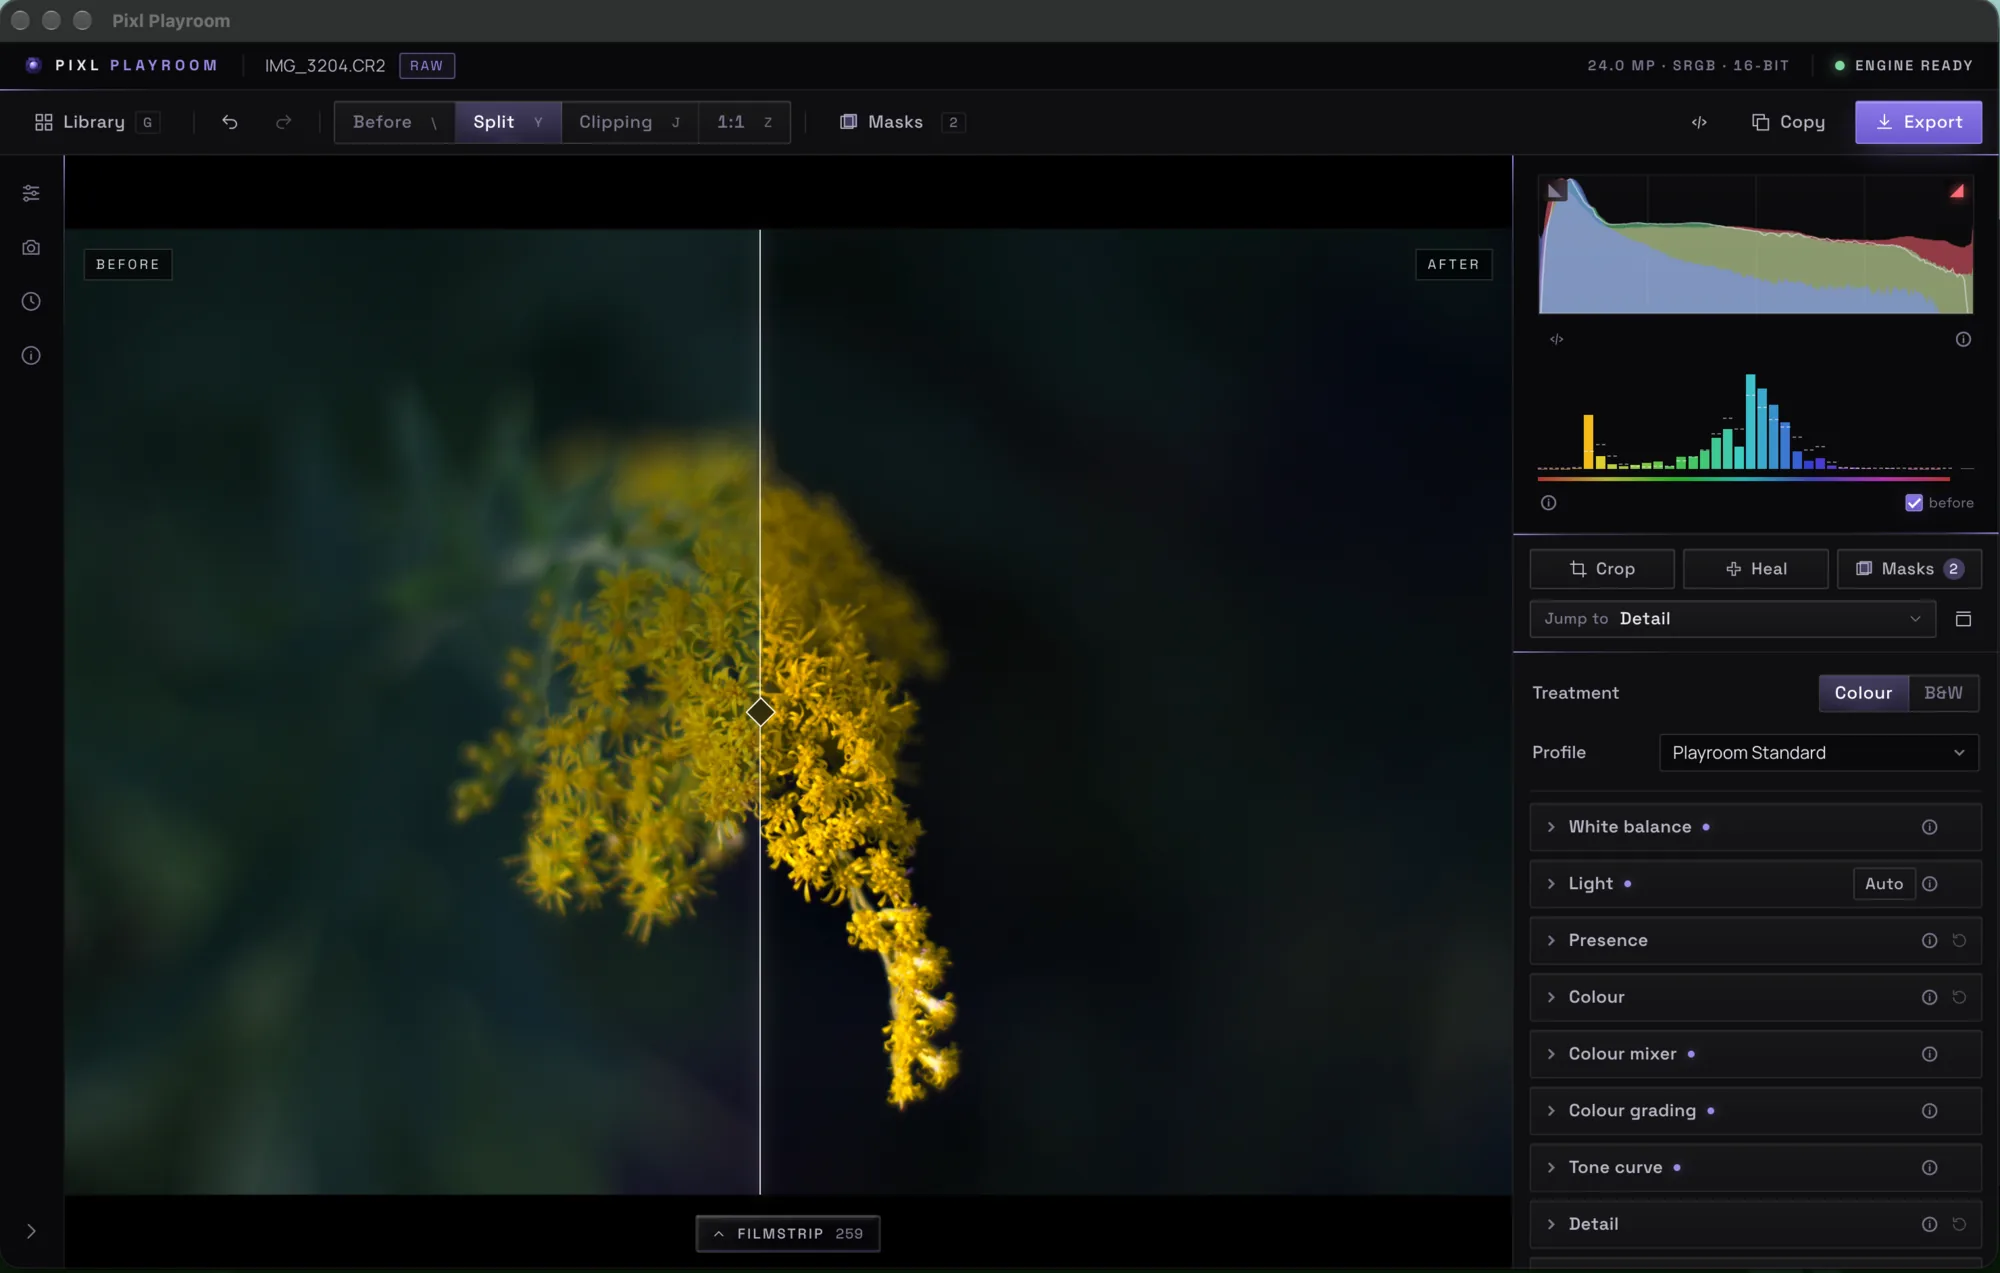
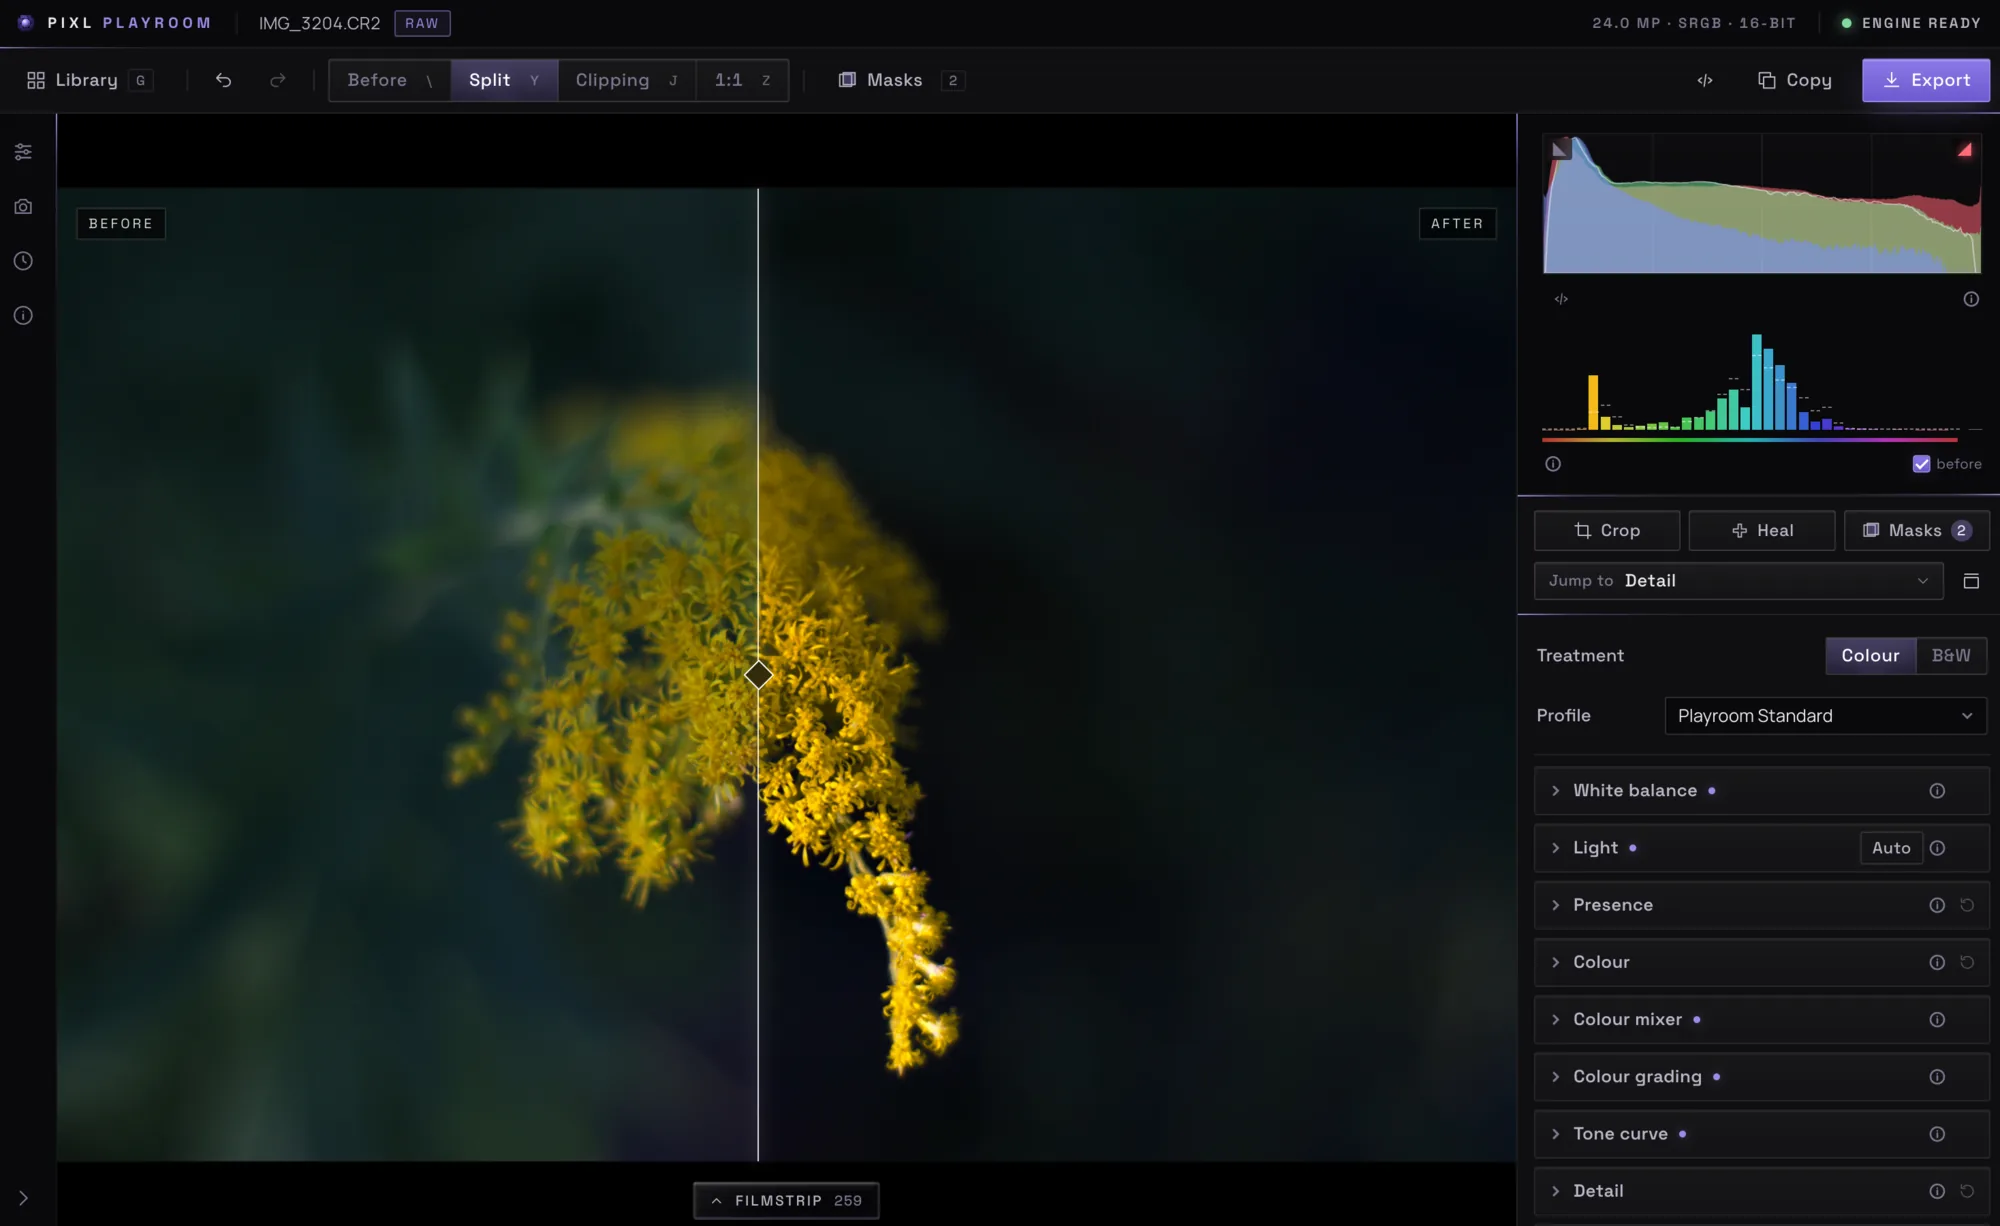
fix: compare update of playroom

diff --git a/src/styles/playroom.css b/src/styles/playroom.css
@@ -83,14 +83,17 @@
 .tool-panels section { display: grid; grid-template-columns: minmax(0, 1.15fr) minmax(0, 1fr); gap: 44px; align-items: center; }
 .tool-panels section[hidden] { display: none; }
 .tool-shot {
-  height: min(720px, 84vh); margin: 0; padding: 28px;
+  --pad: 28px;
+  --stage: min(720px, 84vh);
+  height: var(--stage); margin: 0; padding: var(--pad); overflow: hidden;
   display: flex; align-items: center; justify-content: center;
   border: 1px solid var(--line);
   background: radial-gradient(70% 60% at 50% 45%, rgba(157, 139, 234, .16), transparent 72%), #050507;
 }
 .tool-shot picture { display: contents; }
 .tool-shot img {
-  width: auto; height: auto; max-width: min(100%, var(--w)); max-height: 100%;
+  /* Explicit lengths, not percentages: WebKit ignores a percentage max-height here. */
+  width: auto; height: auto; max-width: min(100%, var(--w)); max-height: calc(var(--stage) - 2 * var(--pad));
   border: 1px solid rgba(255, 255, 255, .12);
   box-shadow: 0 0 0 1px rgba(0, 0, 0, .6), 0 30px 80px -30px rgba(0, 0, 0, .95), 0 24px 110px -50px rgba(157, 139, 234, .6);
 }
@@ -98,17 +101,33 @@
 .tool-copy h3 { font-size: clamp(22px, 2vw, 28px); }
 .tool-copy p { font-size: 16px; color: var(--ink-2); }
 
-/* ── cost ───────────────────────────────────────────────────── */
-.cost { gap: 36px; }
-.cost-table { width: 100%; border-collapse: collapse; font-size: 17px; }
-.cost-table th, .cost-table td { padding: 18px 20px; text-align: left; border-bottom: 1px solid var(--line); font-weight: 400; }
-.cost-table thead th { font-family: 'Space Grotesk', system-ui, sans-serif; font-size: 12px; font-weight: 600; letter-spacing: .18em; text-transform: uppercase; color: var(--ink-3); }
-.cost-table tbody th { font-weight: 600; }
-.cost-table td { color: var(--ink-2); }
-.cost-table td:last-child, .cost-table th:last-child { text-align: right; }
-.cost-table tr.ours { background: linear-gradient(90deg, rgba(157, 139, 234, .14), rgba(157, 139, 234, .02)); }
-.cost-table tr.ours th { color: #fff; }
-.cost-table tr.ours td:last-child { color: var(--accent); font-weight: 700; }
+/* ── compare ────────────────────────────────────────────────── */
+.compare { gap: 36px; }
+.cmp-scroll { width: 100%; overflow-x: auto; border: 1px solid var(--line); background: #050507; scrollbar-width: thin; scrollbar-color: #3a3550 transparent; }
+.cmp-scroll:focus-visible { outline: 2px solid var(--accent-soft); outline-offset: 3px; }
+.cmp { width: 100%; min-width: 860px; border-collapse: separate; border-spacing: 0; table-layout: fixed; font-size: 14px; }
+.cmp th, .cmp td { padding: 14px 16px; text-align: left; vertical-align: top; font-weight: 400; border-bottom: 1px solid var(--line); }
+.cmp thead th, .cmp thead td { position: sticky; top: 0; z-index: 2; background: #08070d; vertical-align: bottom; padding-top: 22px; padding-bottom: 16px; }
+.cmp thead .app { display: block; font-family: 'Space Grotesk', system-ui, sans-serif; font-size: 16px; font-weight: 700; color: var(--ink); }
+.cmp thead .sub { display: block; margin-top: 4px; font-size: 12px; color: var(--ink-3); }
+.cmp tr > th[scope='row'], .cmp thead td { width: 21%; }
+/* The row names stay put while the columns scroll. */
+.cmp th[scope='row'], .cmp thead td { position: sticky; left: 0; z-index: 1; background: #050507; color: var(--ink-2); font-weight: 600; }
+.cmp thead td { z-index: 3; background: #08070d; }
+.cmp tr.grp th { padding: 26px 16px 10px; background: #050507; }
+.cmp tr.grp .b-micro { position: sticky; left: 16px; color: var(--accent); }
+.cmp td { color: var(--ink-3); line-height: 1.45; }
+.cmp td svg { width: 16px; height: 16px; margin: 1px 8px 0 0; float: left; fill: none; stroke: currentColor; stroke-width: 2.2; stroke-linecap: round; stroke-linejoin: round; }
+.cmp td span { display: block; overflow: hidden; }
+.cmp td.yes svg { stroke: #8fd9a8; }
+.cmp td.no svg { stroke: #e58f8f; }
+.cmp td.part svg { stroke: #e7c46d; }
+.cmp td.soon svg { stroke: var(--accent); }
+.cmp .ours { background: linear-gradient(180deg, rgba(157, 139, 234, .1), rgba(157, 139, 234, .06)); color: var(--ink); }
+.cmp thead th.ours { background: linear-gradient(180deg, rgba(157, 139, 234, .26), rgba(157, 139, 234, .12)), #08070d; box-shadow: inset 0 2px 0 var(--accent); }
+.cmp thead th.ours .app { color: #fff; }
+.cmp tbody tr:last-child th, .cmp tbody tr:last-child td { border-bottom-color: var(--line); }
+.compare .fine { font-size: 13px; color: var(--ink-4); max-width: 900px; }
 
 /* ── pricing ────────────────────────────────────────────────── */
 .pricing { align-items: center; gap: 48px; }
@@ -149,8 +168,7 @@
   .tool-tabs button { flex: none; margin: 0 0 -1px; border-left: 0; border-bottom: 2px solid transparent; }
   .tool-tabs button[aria-selected='true'] { border-bottom-color: var(--accent); background: none; }
   .tool-panels section { grid-template-columns: minmax(0, 1fr); gap: 24px; }
-  .tool-shot { height: auto; padding: 24px 16px; }
-  .tool-shot img { max-height: 68vh; }
+  .tool-shot { --pad: 16px; --stage: 72vh; height: auto; padding: 24px var(--pad); }
   .tool-copy { gap: 12px; }
   .plans { grid-template-columns: minmax(0, 1fr); }
   .faq { grid-template-columns: minmax(0, 1fr); gap: 32px; }
@@ -172,8 +190,9 @@
   .ba-thumbs li { flex-basis: 76px; }
   .tool-name { font-size: 15px; }
   .tool-tabs button { padding: 10px 12px; }
-  .cost-table { font-size: 15px; }
-  .cost-table th, .cost-table td { padding: 14px 8px; }
+  .cmp { min-width: 780px; font-size: 13px; }
+  .cmp th, .cmp td { padding: 12px 12px; }
+  .cmp th[scope='row'], .cmp thead td { width: 150px; }
   .plan { padding: 28px 22px; }
   .price .b-disp { font-size: 52px; }
   .plan-ctas { flex-direction: column; align-items: stretch; }

diff --git a/src/data/playroom.ts b/src/data/playroom.ts
@@ -154,14 +154,81 @@ export const FORMATS = [
 /** The planned launch price. Checkout isn't built yet; see pixl-playroom TODO.md. */
 export const PRICE = { amount: '$69.99', devices: 3, trialDays: 14 }
 
-// Competitor prices from vendor pages, gathered September 2026.
-// TODO before launch: re-check every figure and date the footnote.
-export const COST_3Y = [
-  { name: 'Pixl Playroom', model: 'Pay once', total: '$69.99', ours: true },
-  { name: 'Lightroom (Photography 20 GB)', model: '$9.99 a month', total: '$359.64' },
-  { name: 'Capture One Pro', model: '$349 one-time, or subscription', total: '$349' },
-  { name: 'Darkroom', model: '$39.99 a year, or $99.99 lifetime', total: '$99.99+' }
-]
+export type Mark = 'yes' | 'no' | 'part' | 'soon'
+
+export interface Compare {
+  apps: { name: string; sub?: string }[]
+  groups: { title: string; rows: { label: string; cells: { mark?: Mark; text: string }[] }[] }[]
+}
+
+/** One cell per app, in COMPARE.apps' order: [mark, text], or text alone. */
+const row = (label: string, ...cells: ([Mark, string] | string)[]) => ({
+  label,
+  cells: cells.map((c) => (typeof c === 'string' ? { text: c } : { mark: c[0], text: c[1] }))
+})
+
+// Checked 2026-10-02 against each vendor's own pages (pricing, help centre,
+// release notes): Lightroom Classic 15.6, Capture One Pro 16.8.6, Darkroom 7.4.
+// Playroom's column is what 0.2.0-beta does, with its price and trial from 1.0.
+// TODO before launch: check every row again and re-date the footnote.
+export const COMPARE: Compare = {
+  apps: [
+    { name: 'Pixl Playroom', sub: 'At 1.0' },
+    { name: 'Lightroom Classic', sub: 'Adobe Lightroom plan' },
+    { name: 'Capture One Pro', sub: 'Perpetual or subscription' },
+    { name: 'Darkroom', sub: 'Darkroom+' }
+  ],
+  groups: [
+    {
+      title: 'Price and ownership',
+      rows: [
+        row('Three years of use', ['yes', '$69.99, once'], ['no', '$431.64 ($11.99 a month)'], ['part', '$349 once, or $648 by subscription'], ['part', '$99.99 once, or $119.97 by the year']),
+        row('Buy it once, keep it', ['yes', 'Yes, with every 1.x update'], ['no', 'Subscription only'], ['part', 'Yes, but new features are paid upgrades'], ['yes', 'Yes, with future features']),
+        row('Computers', `${PRICE.devices} at a time`, 'Active on 2', '3 activations', 'Your Apple devices'),
+        row('Platforms', 'macOS and Windows', 'macOS and Windows', 'macOS and Windows', ['part', 'Apple only: Mac, iPhone, iPad']),
+        row('Free trial', `${PRICE.trialDays} days, no card. Free beta now`, '7 days', '7 days, card required', 'Edit free; export needs Darkroom+')
+      ]
+    },
+    {
+      title: 'Your files',
+      rows: [
+        row('Works on your folders, no import', ['yes', 'Yes, no catalog'], ['no', 'Imports into a catalog'], ['part', 'Yes in Sessions; Catalogs import'], ['no', 'Apple Photos library only']),
+        row('Where your edits live', 'One .pixl file beside each photo', 'A catalog database', 'Session sidecars or a catalog', 'Darkroom\'s database, on each device')
+      ]
+    },
+    {
+      title: 'Privacy',
+      rows: [
+        row('AI runs on your computer', ['yes', 'All of it'], ['part', 'Not Generative Remove or Firefly: cloud'], ['part', 'Masks yes; some add-ons are cloud'], ['yes', 'All of it']),
+        row('Usage analytics', ['yes', 'None. Crash reports only if you opt in'], ['part', 'Usage data, with an opt-out'], 'Not documented', ['part', 'Anonymous analytics']),
+        row('Account and sign-in', ['part', 'PIXL account; 30 days offline'], ['part', 'Adobe ID; 30 to 99 days offline'], ['part', 'Capture One account; checks every 30 days'], ['yes', 'No account'])
+      ]
+    },
+    {
+      title: 'AI and editing',
+      rows: [
+        row('AI masks', ['yes', 'Subject, background, objects, sky. People soon'], ['yes', 'Subject, sky, background, objects, people'], ['yes', 'Subject, background, objects, people. No sky'], ['part', 'Subject, background, depth; sky on some photos']),
+        row('Presets that make their own masks', ['yes', 'Smart looks, among 300+ looks'], ['yes', 'Adaptive presets'], ['yes', 'Styles with AI masks'], ['part', 'Presets can carry masks']),
+        row('AI noise reduction', ['yes', 'On your computer'], ['yes', 'On your computer'], ['yes', 'Bayer RAW files only'], ['no', 'No']),
+        row('AI upscaling', ['yes', '×2 and ×4, on your computer'], ['part', '×2 only'], ['no', 'No'], ['no', 'No']),
+        row('Generative remove', ['soon', 'Planned. Heal, clone and fill now'], ['yes', 'Yes, in the cloud'], ['no', 'No'], ['no', 'No']),
+        row('Automatic lens correction', ['yes', 'About 1,500 lenses, offline, and defish'], ['yes', 'Yes'], ['yes', 'Yes'], ['no', 'No']),
+        row('Colour grading wheels', ['yes', 'Yes'], ['yes', 'Yes'], ['yes', 'Yes'], ['yes', 'Yes']),
+        row('HDR editing and export', ['yes', 'Gain maps, PQ and HLG'], ['yes', 'Yes'], ['no', 'No'], ['no', 'No'])
+      ]
+    },
+    {
+      title: 'Beyond the edit',
+      rows: [
+        row('AI agents in control', ['soon', 'Planned before 1.0: any MCP agent, every control, on your own files'], ['no', 'Adobe\'s agents work in its cloud, not in Classic'], ['no', 'No. AppleScript, and cloud Actions on Studio'], ['no', 'No. Apple Shortcuts']),
+        row('Tethered shooting', ['no', 'No'], ['yes', 'Yes'], ['yes', 'Yes, 550+ cameras'], ['no', 'No']),
+        row('Layers beyond masks', ['no', 'Not yet'], ['no', 'No'], ['yes', 'Yes'], ['no', 'No']),
+        row('HDR and panorama merge', ['no', 'No'], ['yes', 'Yes'], ['yes', 'Yes'], ['no', 'No']),
+        row('Print', ['no', 'No'], ['yes', 'Print, book, slideshow and web'], ['yes', 'Print'], ['no', 'No'])
+      ]
+    }
+  ]
+}
 
 export const FAQ = [
   {

diff --git a/src/lib/fingerprint.ts b/src/lib/fingerprint.ts
@@ -1,0 +1,22 @@
+// Build time only (pages and components, never the Worker): it reads public/.
+import { createHash } from 'node:crypto'
+import { readFileSync } from 'node:fs'
+import { join } from 'node:path'
+import { SITES, type SiteId } from './sites'
+
+const hashes = new Map<string, string>()
+
+/**
+ * `path` (a file under public/<site>/) with ?v=<its content hash>. Images are
+ * cached for a day under names that stay the same when a file changes, so a
+ * new screenshot needs a new URL to be seen at once.
+ */
+export function fingerprint(site: SiteId, path: string): string {
+  const file = join(process.cwd(), 'public', SITES[site].dir, path)
+  let v = hashes.get(file)
+  if (v === undefined) {
+    v = createHash('sha1').update(readFileSync(file)).digest('hex').slice(0, 10)
+    hashes.set(file, v)
+  }
+  return `${path}?v=${v}`
+}

diff --git a/src/styles/base.css b/src/styles/base.css
@@ -128,8 +128,17 @@ h1, h2, h3, p { margin: 0; }
 
 @media (max-width: 1100px) {
   :root { --gutter: 40px; }
+  .nav { gap: 24px; }
+  .nav-links { gap: 22px; }
   .foot-grid { grid-template-columns: 1fr 1fr; }
   .foot-about { grid-column: 1 / -1; }
+}
+
+/* A full menu and its button don't fit here; the menu's own links (and the page) carry the action. */
+@media (max-width: 960px) {
+  .nav .b-cta { display: none; }
+  .nav-links { gap: 18px; }
+  .nav-links a { font-size: 14px; }
 }
 
 @media (max-width: 760px) {
